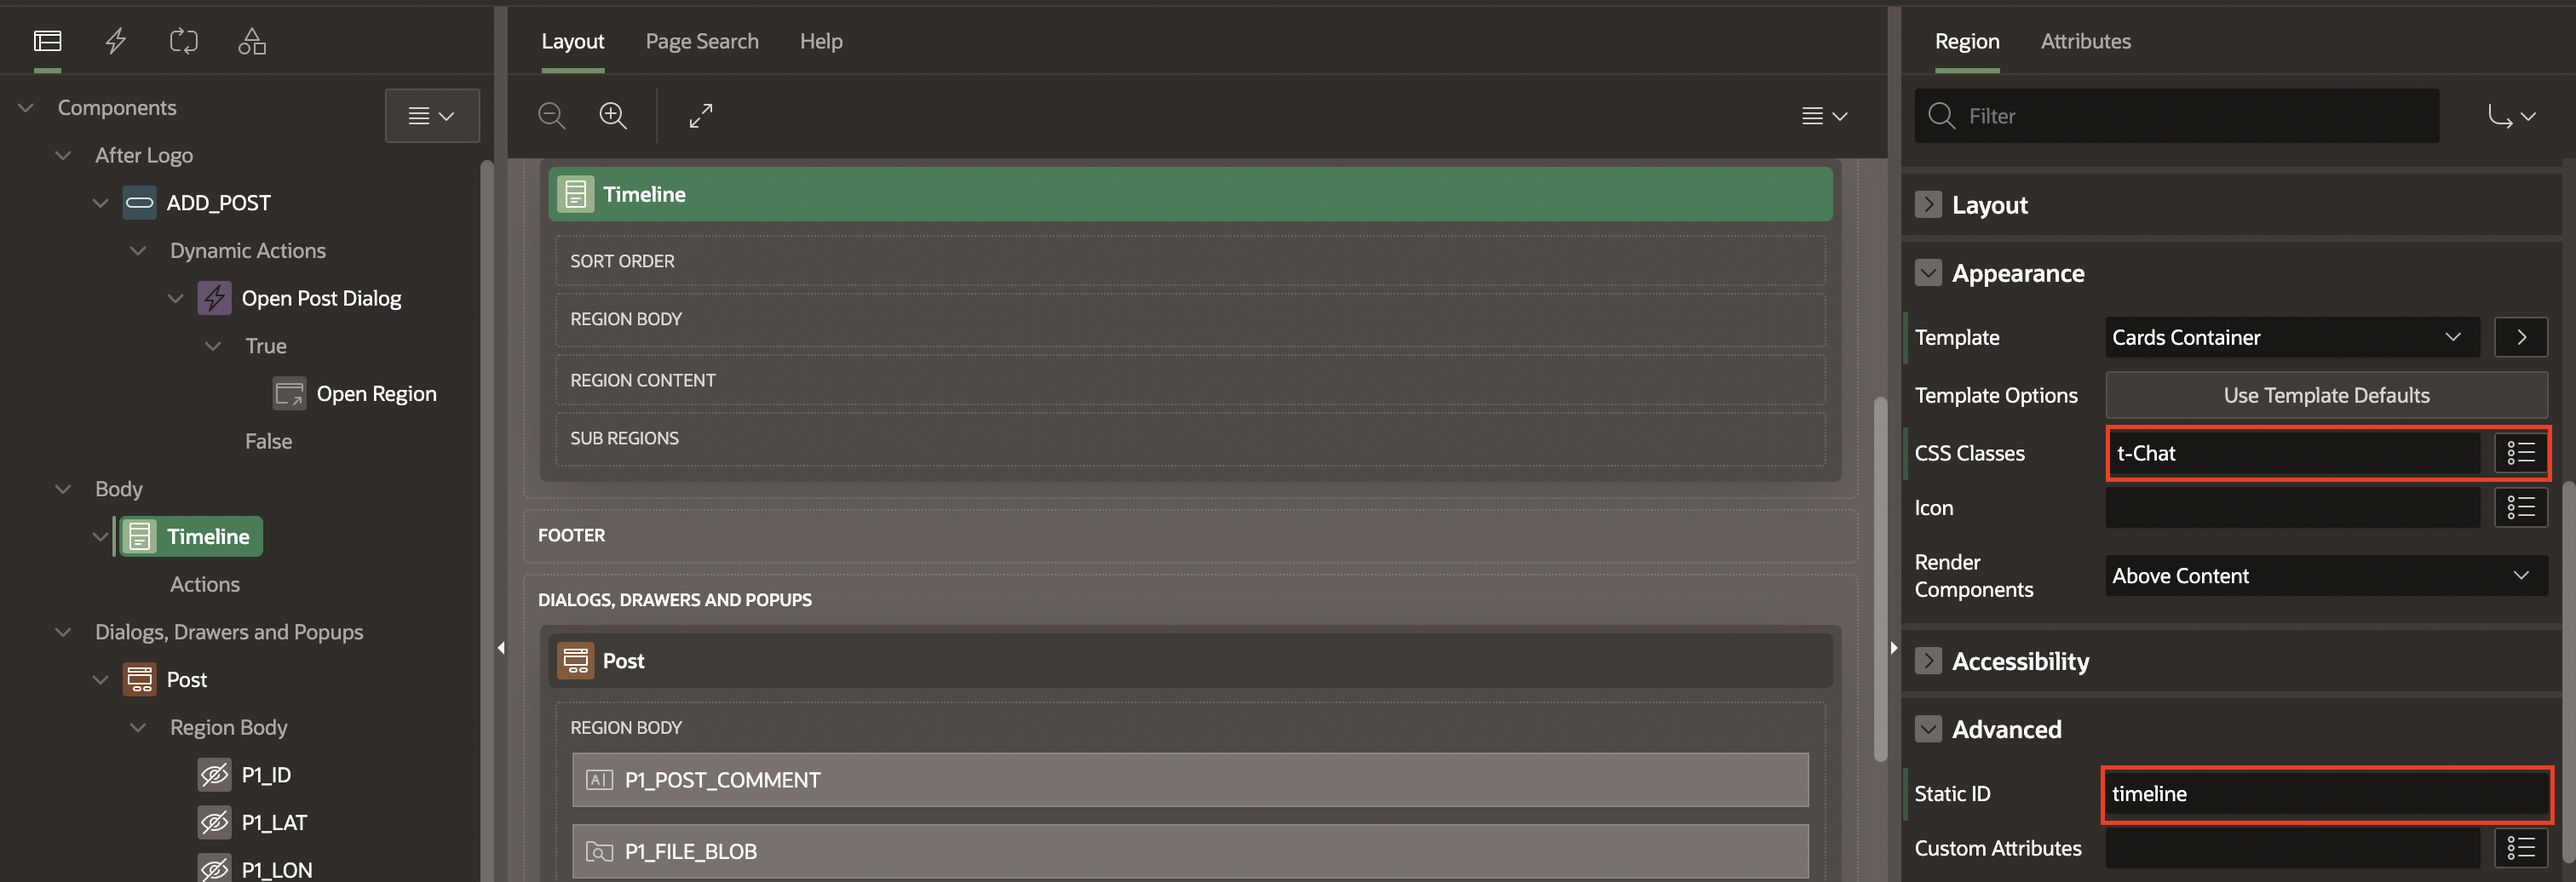
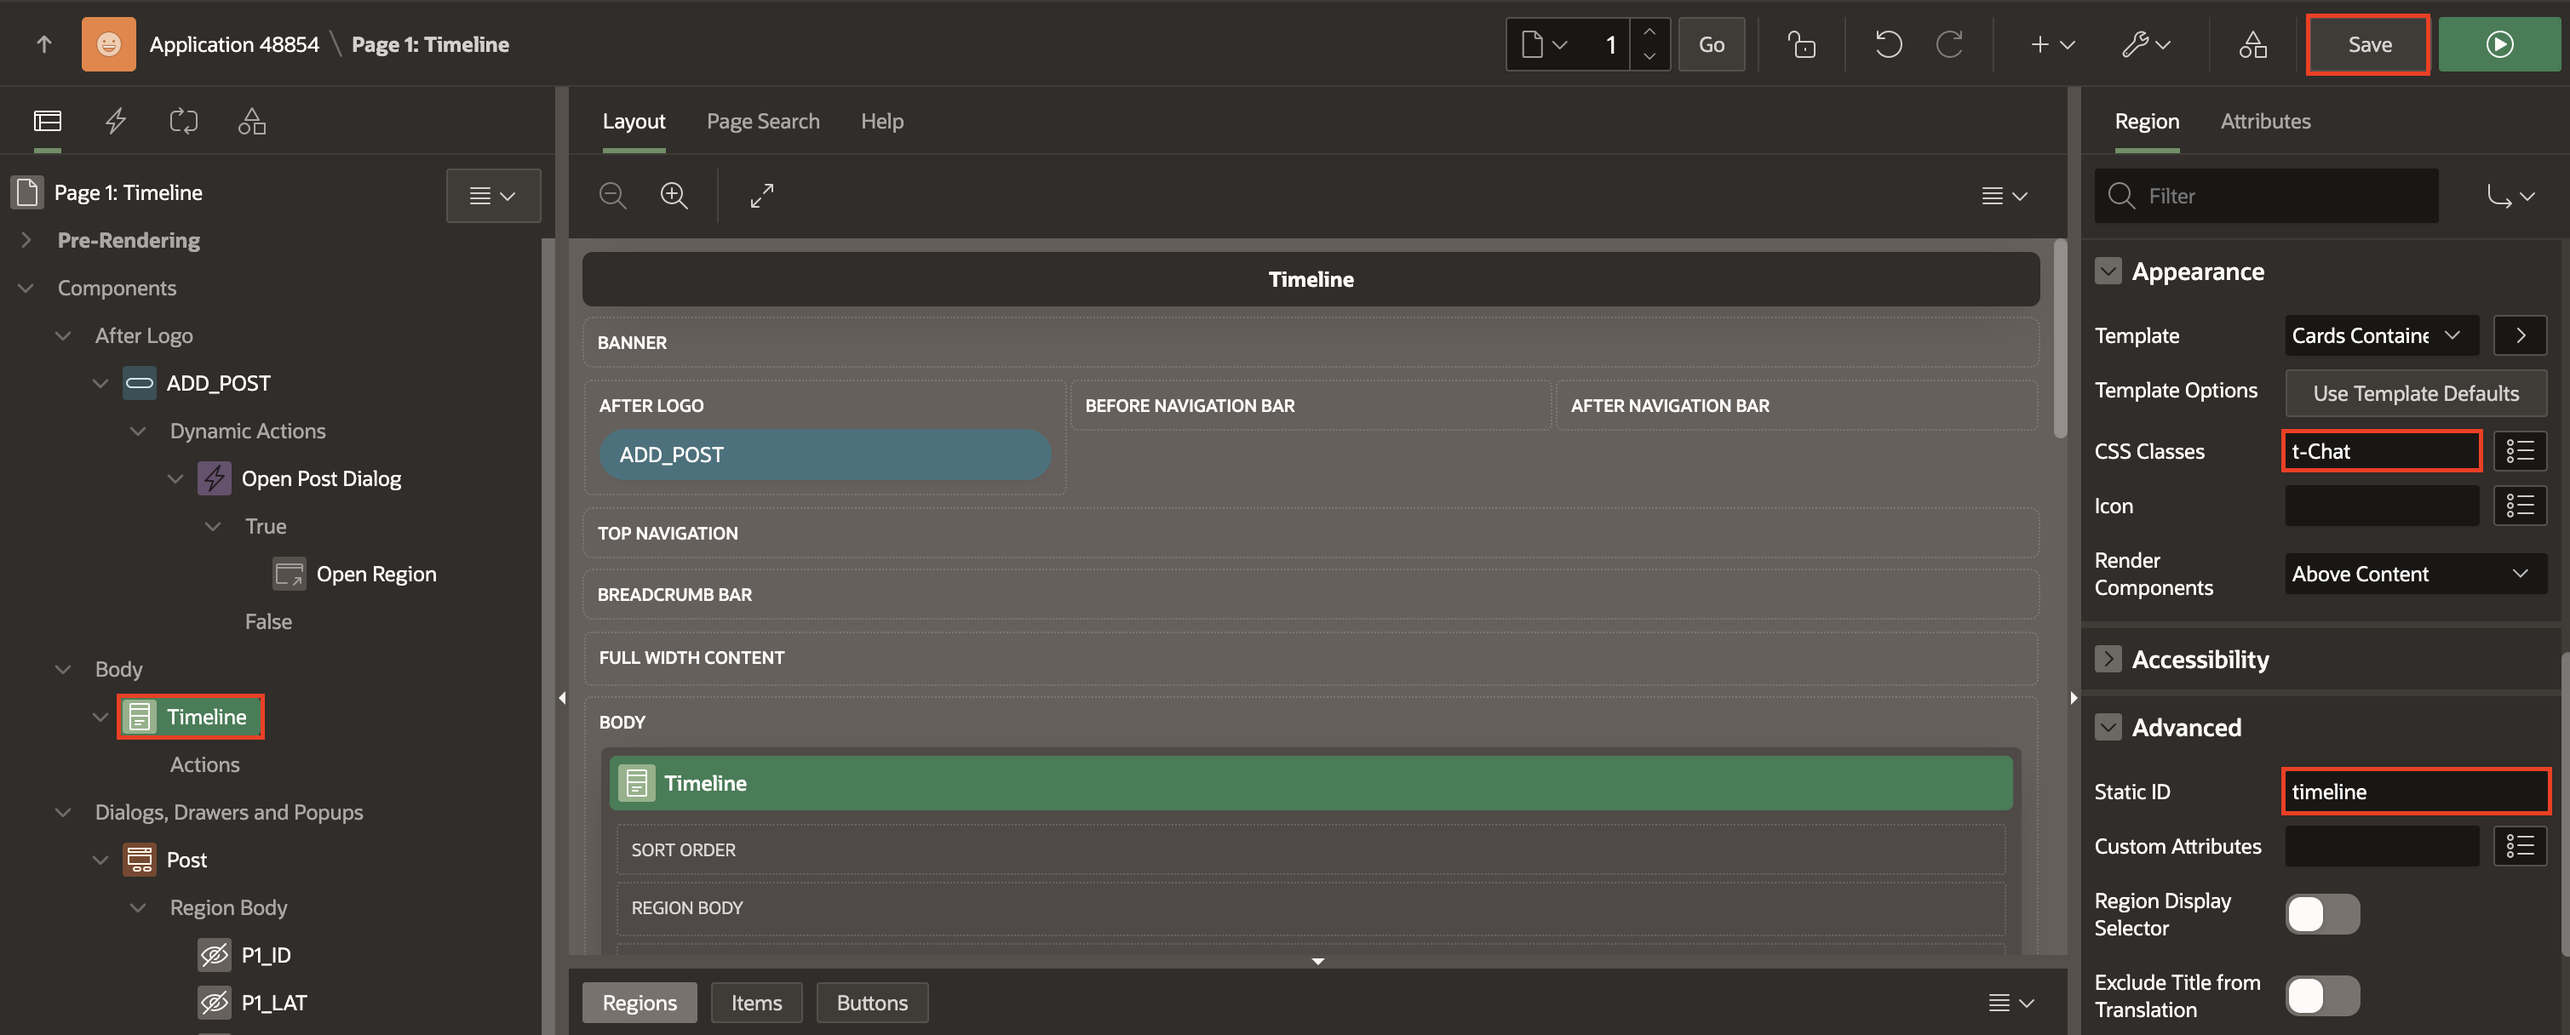
image updates

diff --git a/social-media-app/6-build-cards-region/6-build-cards-region.md b/social-media-app/6-build-cards-region/6-build-cards-region.md
@@ -76,6 +76,8 @@ In this lab, you will:
 
     - Advanced > Static ID: **timeline**
 
+    **Save** the app.
+
     ![Property editor](images/appearance1.png)
 
     Next, we need to configure which columns from the query results will be used in different parts of the CARDS region.
